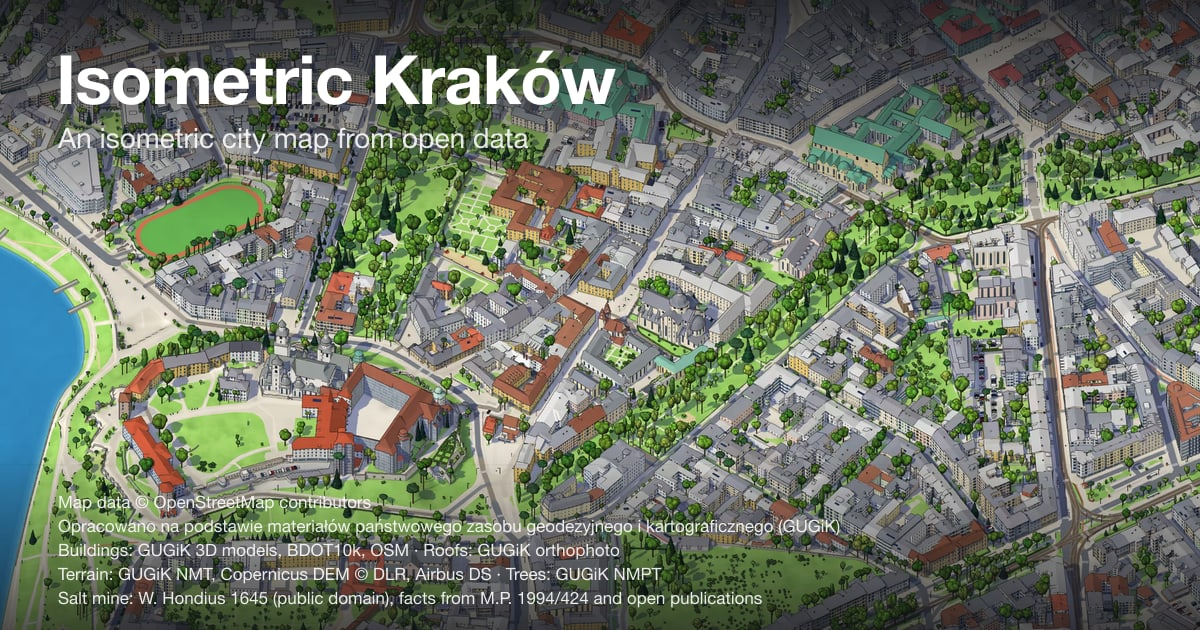
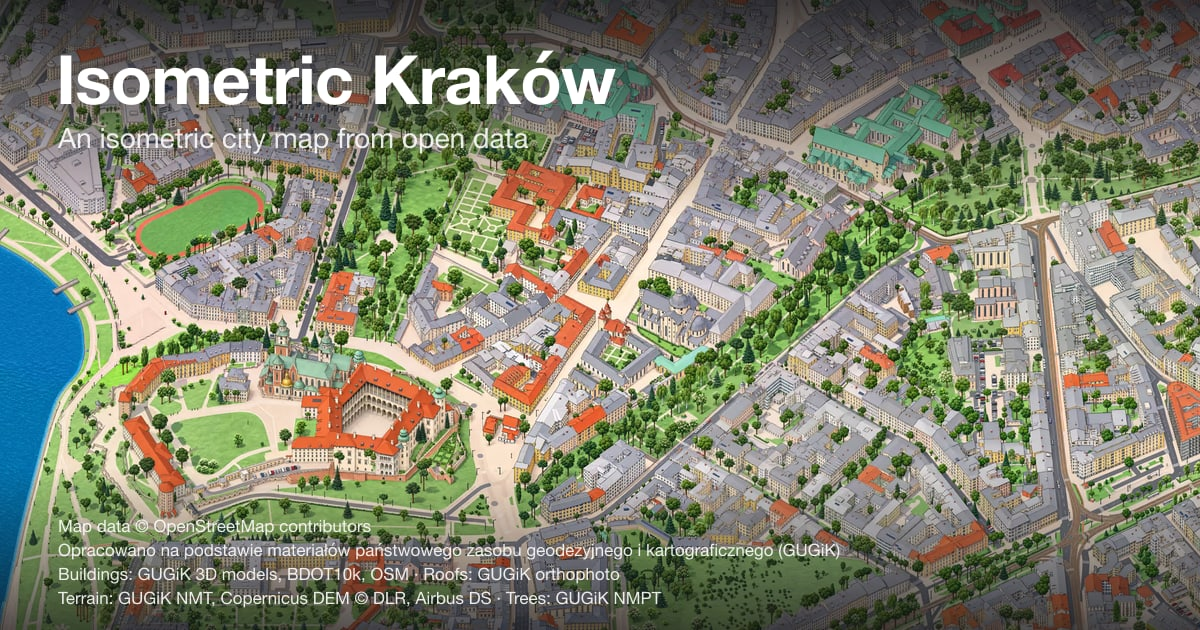
Isometric Kraków: Kraków-only social cards, data-driven card credits, export notes
- og/isometric-krakow.jpg and og/krakow.jpg from the krakow region's export
- city cards of a region missing from the tables take GUGiK's notice from its
  sources and the AI label from its credits
- hosting doc: first krakow export, borders file, #@ links still map

diff --git a/docs/hosting-isometrickrakow.md b/docs/hosting-isometrickrakow.md
@@ -41,8 +41,8 @@ WEB_STATE=/Users/admin/Sites/isometricworld/data/web-state-isometrickrakow
 ```
 
 With these, `/` opens Kraków's map, `/krakow` is the only city page, and `/wieliczka` (any capitalisation) answers
-301 to `/krakow` with the query kept, so old `?at=lat,lon,km` links land on the same spot. Old `#@x,y,zoom` links
-from the Wieliczka region carry its pixel coordinates and open somewhere else on Kraków's map. The map footer reads
+301 to `/krakow` with the query kept, so old `?at=lat,lon,km` links land on the same spot. The `krakow` region
+shares the Wieliczka region's camera and grid, so old `#@x,y,zoom` links open the same view too. The map footer reads
 "Made by Piotr Kulpiński · Built on Isometric World by Dmytro Krasun (GitHub)" after the data credits and
 "Painted with AI". The salt mine (its button, levels and plan credit) comes only with a region that exports a
 mine, so Kraków has none.
@@ -68,11 +68,14 @@ two R2 variables, about 5 hours for the first full upload).
 ## Export
 
 The `krakow` region has no published state in this bucket yet, so its first export with this `.env` builds the
-whole pyramid into `WEB_CACHE`. Later exports write only what changed.
+whole pyramid into `WEB_CACHE`. Later exports write only what changed. Export needs the region's borders
+(`data/raw/boundaries/krakow.json`, local only): make them once with `REGION=krakow npm -w pipeline run boundaries -- krakow`.
 
 ```sh
-npm run export -- krakow
+DATA_DIR=/Users/admin/Sites/isometricworld/data npm run export -- krakow   # from a worktree; drop DATA_DIR in the main checkout
 ```
+
+First export on 2026-11-27: 68,267 files (1.8 GB), 4,350 rendered and 411 painted tiles, no salt mine.
 
 ## Publish
 
